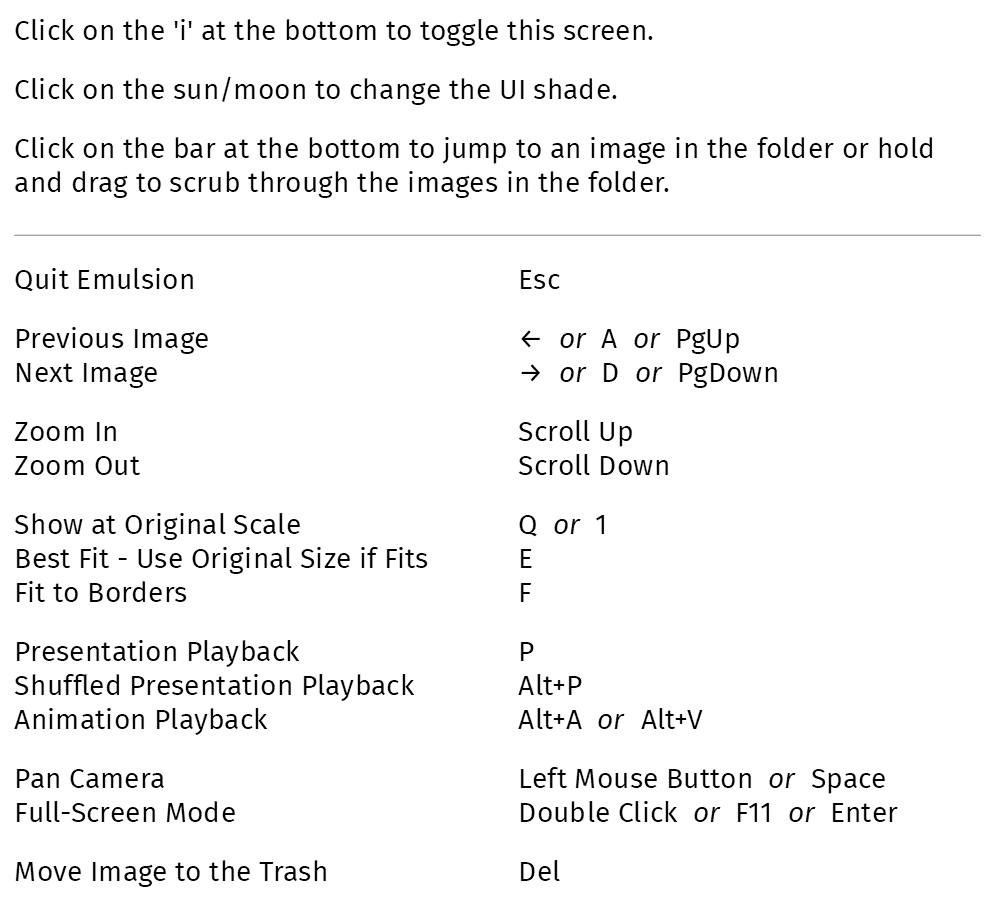
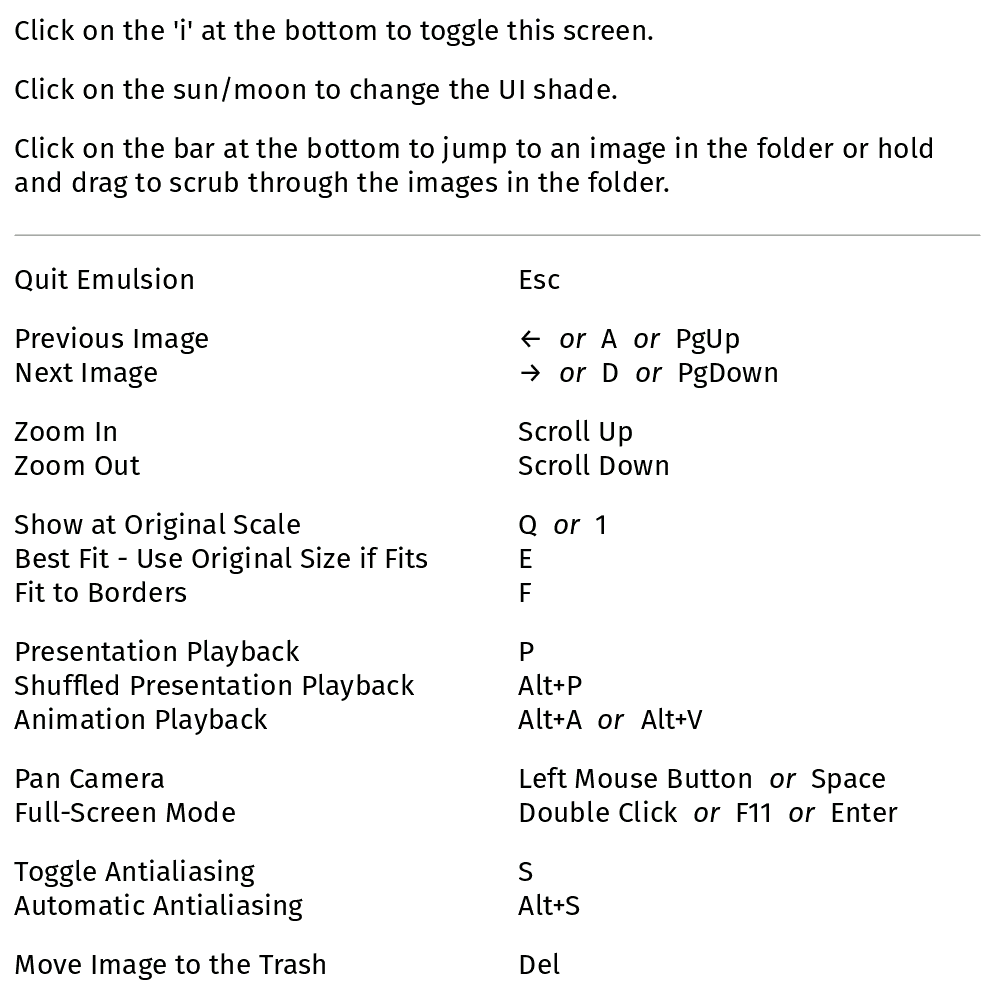
Add shortcuts to toggle antialiasing (#149)
* Add shortcuts to toggle antialiasing

* Update help image

* Store antialiasing setting in cfg.toml

* Revert "Update help image"

This reverts commit bb0506516022a466c47c9a07dfd33fe51bbec32b.

* Update help popup

* "previous" value to preserve antialiasing setting
when reopening emulsion

* Use constant for texel size threshold

diff --git a/src/picture_widget.rs b/src/picture_widget.rs
@@ -6,7 +6,9 @@ use std::time::{Duration, Instant};
 
 use gelatin::cgmath::{Matrix4, Rad, Vector3};
 use gelatin::glium::glutin::event::{ElementState, ModifiersState, MouseButton};
-use gelatin::glium::{program, uniform, Display, Frame, Program, Surface};
+use gelatin::glium::{
+	program, uniform, uniforms::MagnifySamplerFilter, Display, Frame, Program, Surface,
+};
 
 use gelatin::add_common_widget_functions;
 use gelatin::misc::{Alignment, Length, LogicalRect, LogicalVector, WidgetPlacement};
@@ -21,7 +23,7 @@ use crate::shaders;
 use crate::utils::{virtual_keycode_is_char, virtual_keycode_to_string};
 use crate::{
 	bottom_bar::BottomBar,
-	configuration::{Cache, Configuration},
+	configuration::{Antialias, Cache, Configuration},
 	help_screen::HelpScreen,
 	image_cache::AnimationFrameTexture,
 	playback_manager::*,
@@ -29,6 +31,7 @@ use crate::{
 
 const MIN_ZOOM_FACTOR: f32 = 0.0001;
 const MAX_ZOOM_FACTOR: f32 = 10000.0;
+const AA_TEXEL_SIZE_THRESHOLD: f32 = 4f32;
 
 #[derive(Debug, Copy, Clone, PartialEq)]
 pub enum ScalingMode {
@@ -63,6 +66,7 @@ struct PictureWidgetData {
 	img_texel_size: f32,
 	scaling: ScalingMode,
 	img_pos: LogicalVector,
+	antialiasing: Antialias,
 
 	last_click_time: Instant,
 	last_mouse_pos: LogicalVector,
@@ -197,6 +201,23 @@ impl PictureWidgetData {
 		self.render_validity.invalidate();
 	}
 
+	pub fn toggle_antialias(&mut self) {
+		let aa = match self.antialiasing {
+			Antialias::Auto if self.img_texel_size < AA_TEXEL_SIZE_THRESHOLD => Antialias::Never,
+			Antialias::Auto | Antialias::Never => Antialias::Always,
+			Antialias::Always => Antialias::Never,
+		};
+		self.antialiasing = aa;
+		self.cache.lock().unwrap().image.antialiasing = aa;
+		self.render_validity.invalidate();
+	}
+
+	pub fn set_automatic_antialias(&mut self) {
+		self.antialiasing = Antialias::Auto;
+		self.cache.lock().unwrap().image.antialiasing = Antialias::Auto;
+		self.render_validity.invalidate();
+	}
+
 	/// Ensures that the image is within the widget, or at least touches an edge of the widget
 	fn apply_img_bounds(&mut self, dpi_scale: f32) {
 		if let Some(texture) = self.get_texture() {
@@ -263,6 +284,26 @@ impl PictureWidget {
 			}
 		}
 
+		let antialiasing = configuration
+			.borrow()
+			.image
+			.as_ref()
+			.map(|s| s.antialiasing.clone())
+			.flatten()
+			.unwrap_or_else(|| "auto".into());
+
+		let antialiasing = match antialiasing.as_str() {
+			"auto" => Antialias::Auto,
+			"always" => Antialias::Always,
+			"never" => Antialias::Never,
+			"previous" => cache.lock().unwrap().image.antialiasing,
+			val => {
+				eprintln!("Illegal configuration value {:?} for antialiasing!", val);
+				eprintln!(r#"Allowed values are "auto", "always", "never" and "previous"."#);
+				Antialias::default()
+			}
+		};
+
 		let mut data = PictureWidgetData {
 			placement: Default::default(),
 			drawn_bounds: Default::default(),
@@ -280,6 +321,7 @@ impl PictureWidget {
 			img_texel_size: 0.0,
 			scaling,
 			img_pos: Default::default(),
+			antialiasing,
 			last_click_time: Instant::now() - Duration::from_secs(10),
 			last_mouse_pos: Default::default(),
 			panning: false,
@@ -370,6 +412,12 @@ impl PictureWidget {
 		}
 		if triggered!(IMG_ORIG_NAME) {
 			borrowed.set_img_size_to_orig();
+		}
+		if triggered!(TOGGLE_ANTIALIAS) {
+			borrowed.toggle_antialias();
+		}
+		if triggered!(SET_AUTOMATIC_ANTIALIAS) {
+			borrowed.set_automatic_antialias();
 		}
 		if triggered!(PLAY_PRESENT_NAME) {
 			match borrowed.playback_manager.playback_state() {
@@ -523,11 +571,16 @@ impl Widget for PictureWidget {
 						gelatin::glium::uniforms::MinifySamplerFilter::LinearMipmapLinear,
 					)
 					.wrap_function(gelatin::glium::uniforms::SamplerWrapFunction::Clamp);
-				let sampler = if data.img_texel_size >= 4f32 {
-					sampler.magnify_filter(gelatin::glium::uniforms::MagnifySamplerFilter::Nearest)
-				} else {
-					sampler.magnify_filter(gelatin::glium::uniforms::MagnifySamplerFilter::Linear)
+
+				let filter = match data.antialiasing {
+					Antialias::Auto if data.img_texel_size < AA_TEXEL_SIZE_THRESHOLD => {
+						MagnifySamplerFilter::Linear
+					}
+					Antialias::Auto | Antialias::Never => MagnifySamplerFilter::Nearest,
+					Antialias::Always => MagnifySamplerFilter::Linear,
 				};
+				let sampler = sampler.magnify_filter(filter);
+
 				// building the uniforms
 				let lod_level = ((1.0 / data.img_texel_size).log2().max(0.0) + 0.125).floor();
 				let uniforms = uniform! {

diff --git a/src/configuration.rs b/src/configuration.rs
@@ -21,9 +21,31 @@ impl Theme {
 	}
 }
 
+#[derive(Debug, Copy, Clone, PartialEq, Serialize, Deserialize)]
+pub enum Antialias {
+	#[serde(rename = "auto")]
+	Auto,
+	#[serde(rename = "always")]
+	Always,
+	#[serde(rename = "never")]
+	Never,
+}
+
+impl Default for Antialias {
+	fn default() -> Self {
+		Antialias::Auto
+	}
+}
+
 #[derive(Debug, Default, PartialEq, Clone, Serialize, Deserialize)]
 pub struct CacheImageSection {
 	pub fit_stretches: bool,
+	pub antialiasing: Antialias,
+}
+
+#[derive(Debug, Default, PartialEq, Clone, Serialize, Deserialize)]
+pub struct ConfigImageSection {
+	pub antialiasing: Option<String>,
 }
 
 #[derive(Debug, PartialEq, Clone, Serialize, Deserialize)]
@@ -196,6 +218,7 @@ pub struct Configuration {
 	pub commands: Option<Vec<Command>>,
 	pub updates: Option<ConfigUpdateSection>,
 	pub title: Option<TitleSection>,
+	pub image: Option<ConfigImageSection>,
 }
 
 impl Configuration {

diff --git a/src/input_handling.rs b/src/input_handling.rs
@@ -19,6 +19,8 @@ pub static PAN_NAME: &str = "pan";
 pub static PLAY_ANIM_NAME: &str = "play_anim";
 pub static PLAY_PRESENT_NAME: &str = "play_present";
 pub static PLAY_PRESENT_RND_NAME: &str = "play_present_rnd";
+pub static TOGGLE_ANTIALIAS: &str = "toggle_antialias";
+pub static SET_AUTOMATIC_ANTIALIAS: &str = "automatic_antialias";
 
 lazy_static! {
 	pub static ref DEFAULT_BINDINGS: HashMap<&'static str, Vec<&'static str>> = {
@@ -35,6 +37,8 @@ lazy_static! {
 		m.insert(PLAY_ANIM_NAME, vec!["Alt+A", "Alt+V"]);
 		m.insert(PLAY_PRESENT_NAME, vec!["P"]);
 		m.insert(PLAY_PRESENT_RND_NAME, vec!["Alt+P"]);
+		m.insert(TOGGLE_ANTIALIAS, vec!["S"]);
+		m.insert(SET_AUTOMATIC_ANTIALIAS, vec!["Alt+S"]);
 		m
 	};
 }
